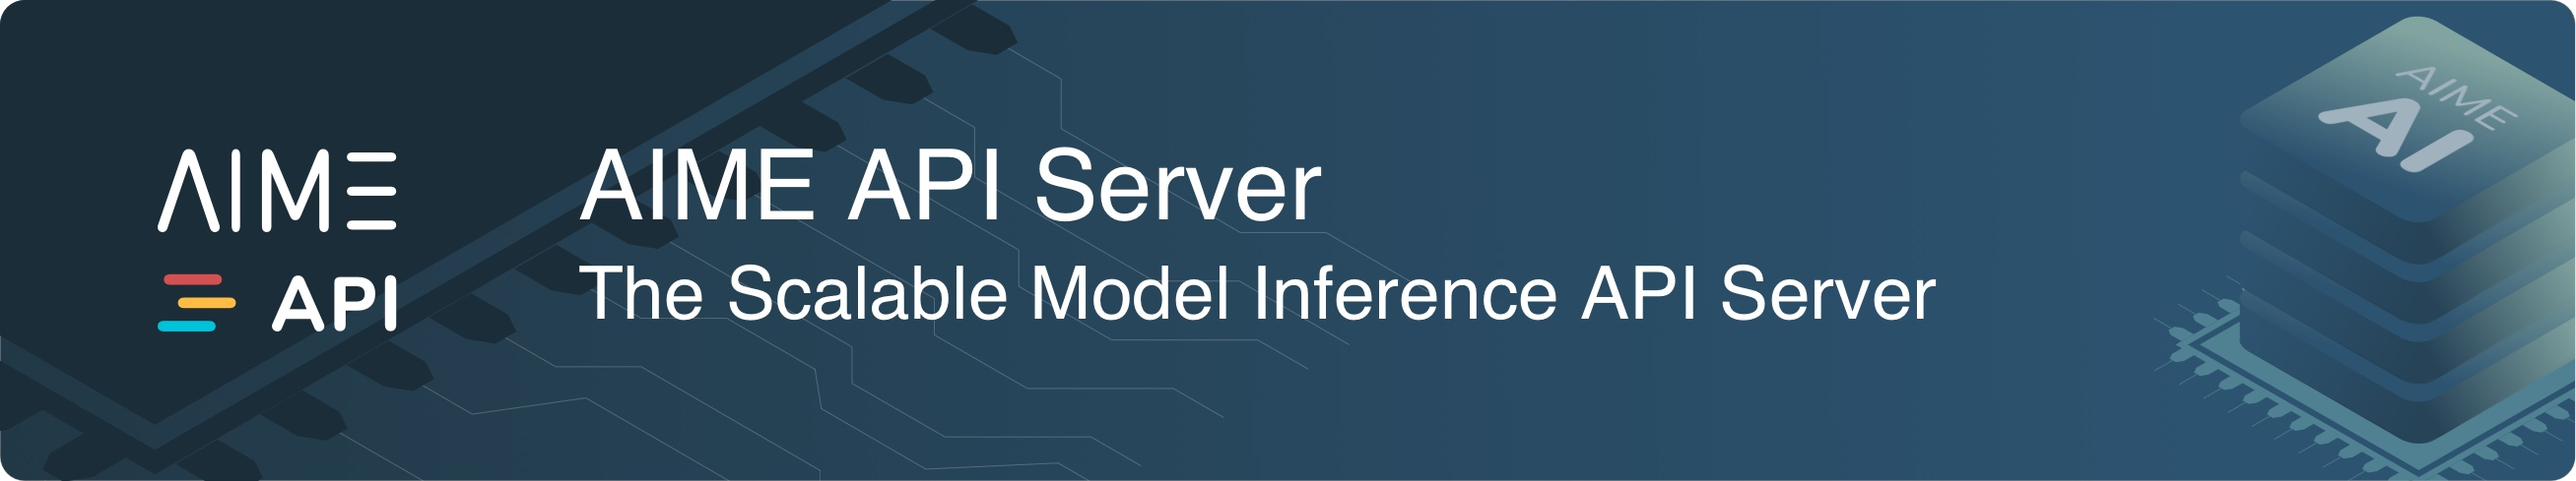
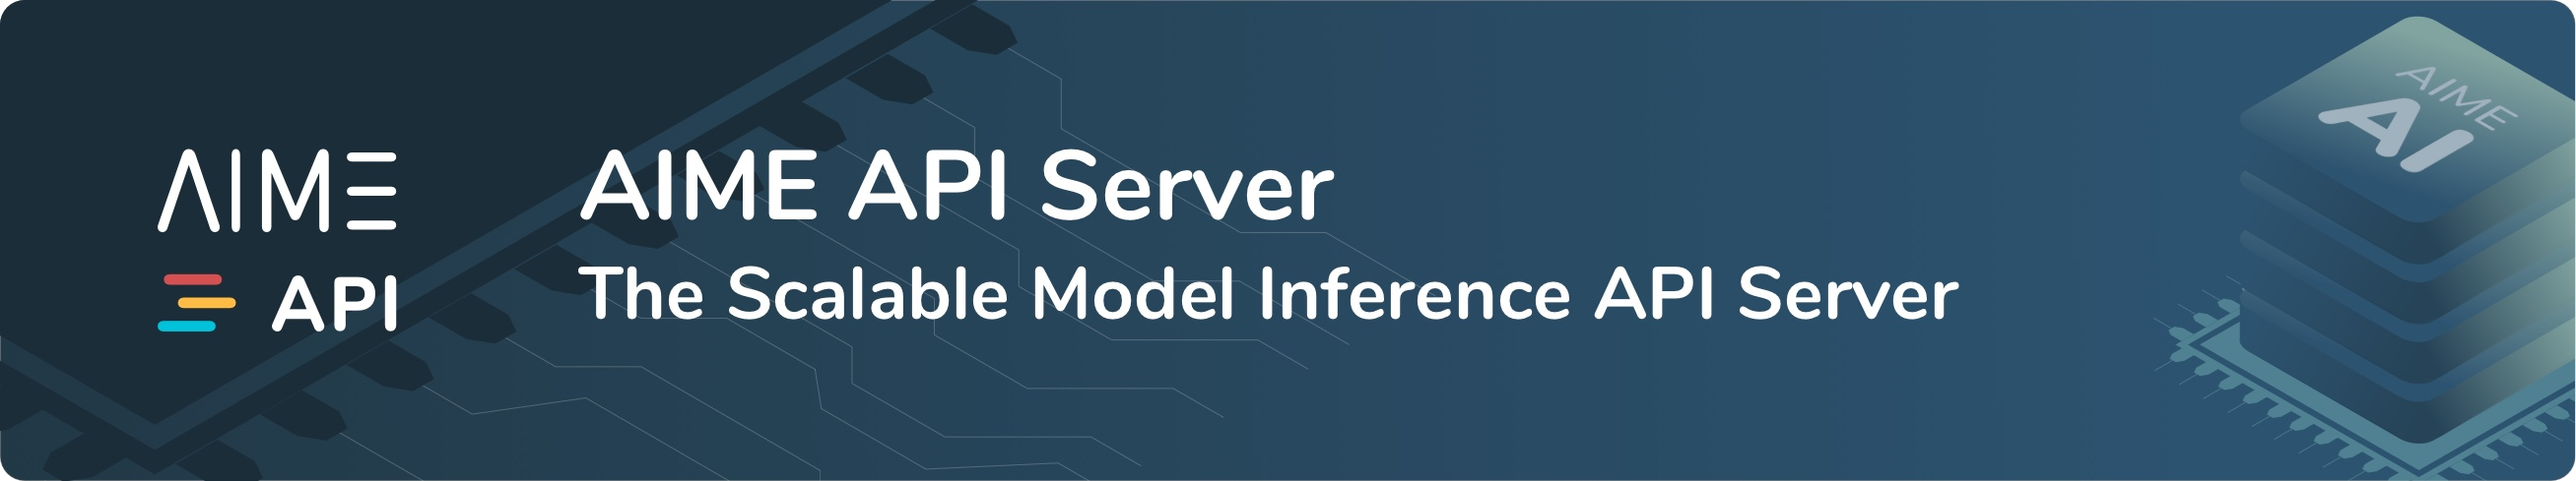
fixes and image change

Changed region(s): [[0.2478, 0.5521, 0.7744, 0.6748], [0.2168, 0.3067, 0.5266, 0.4601], [0.2168, 0.5521, 0.2478, 0.5828]]

diff --git a/endpoints/seamless_communication/m4tv2/index.html b/endpoints/seamless_communication/m4tv2/index.html
@@ -24,10 +24,10 @@ This software may be used and distributed according to the terms of the MIT LICE
 </head>
 
 <body>
-    <div class="pl-5 pr-5 max-w-7xl mx-auto min-h-screen">
+    <div class="pl-5 pr-5 max-w-7xl mx-auto">
         <div id="top">
 			<img class="w-full mb-7 max-w-lg" alt="AIME API Demo: Seamless Communication m4tv2" src="/sc-m4tv2/static/images/aime_api_demo-seamless-translate_banner.png" title="AIME API Demo: Seamless Communication m4tv2">
-            <h2 class="text-2xl font-bold text-aime_blue mt-3">AIME API Demo: Seamless Communication m4tv2</h2>
+            <h2 class="text-xl font-bold text-aime_blue mt-3">AIME API Demo: Seamless Communication m4tv2</h2>
         </div>
 		<div id="layout" class="columns flex flex-col md:flex-row">
 			<!-- LEFT COLUMN -->

diff --git a/endpoints/stable_diffusion_xl/txt2img/index.html b/endpoints/stable_diffusion_xl/txt2img/index.html
@@ -19,10 +19,10 @@
 </head>
 
 <body>
-    <div class="pl-5 pr-5 max-w-7xl mx-auto min-h-screen">
+    <div class="pl-5 pr-5 max-w-7xl mx-auto">
         <div id="top">
             <img class="w-full mb-7 max-w-lg" alt="AIME API Demo: Stable Diffusion XL Text2Image" src="/sdxl-txt2img/static/images/aime_api_demo-sdxl_banner.png" title="AIME API Demo: Stable Diffusion XL Text2Image">
-            <h2 class="text-2xl font-bold text-aime_blue mt-3">AIME API Demo: Stable Diffusion XL Text2Image</h2>
+            <h2 class="text-xl font-bold text-aime_blue mt-3">AIME API Demo: Stable Diffusion XL Text2Image</h2>
         </div>
         <div id="layout" class="columns flex flex-col md:flex-row">
             <!-- LEFT COLUMN -->

diff --git a/endpoints/llama2_chat/index.html b/endpoints/llama2_chat/index.html
@@ -24,10 +24,10 @@ This software may be used and distributed according to the terms of the MIT LICE
 </head>
 
 <body>
-	<div class="pl-5 pr-5 max-w-7xl mx-auto min-h-screen">
+	<div class="pl-5 pr-5 max-w-7xl mx-auto">
         <div id="top">
 			<img class="w-full mb-7 max-w-lg" alt="AIME LLaMa2 Chat Demo" src="/llama2-chat/static/images/aime_api_demo-llm-chat_banner.png" title="AIME LLaMa2 Chat Demo">
-            <h2 class="text-2xl font-bold text-aime_blue mt-3">AIME API Demo: LlaMa 2 - Simple Chat</h2>
+            <h2 class="text-xl font-bold text-aime_blue mt-3">AIME API Demo: LlaMa 2 - Simple Chat</h2>
         </div>
 		<div id="layout" class="columns flex flex-col md:flex-row">
 			<!-- LEFT COLUMN -->

diff --git a/endpoints/index.html b/endpoints/index.html
@@ -281,7 +281,7 @@ This software may be used and distributed according to the terms of the MIT LICE
                 switch(iframePath) {
                     case '/readme.html':
                         iframeDocument.body.style.fontFamily = "'Nunito', 'Helvetica', 'Arial', sans-serif !important";
-                        //convertIFrameContent_DemoModelTeasers();
+                        convertIFrameContent_DemoModelTeasers();
                         break;
                     case '/llama2-chat/':
                         break;

diff --git a/README.md b/README.md
@@ -48,7 +48,7 @@ To illustrate the usage and capabilities of AIME API we currently run following 
 
 ### LLaMa2 Chat
 
-[![AIME LLaMa2 Chat Demo](/docs/images/aime_api_demo-llm-chat.png "AIME LLaMa2 Chat Demo")](/#llama2-chat)
+[![AIME LLaMa2 Chat Demo](/docs/images/aime_api_demo-llm-chat_banner.png "AIME LLaMa2 Chat Demo")](/#llama2-chat)
 
 Chat with 'Dave', our LLaMa2 based chat-bot.
 
@@ -58,7 +58,7 @@ Chat with 'Dave', our LLaMa2 based chat-bot.
 
 ### Stable Diffusion XL
 
-[![AIME Stable Diffusion XL Demo](/docs/images/aime_api_demo-sdxl.png "AIME Stable Diffusion XL Demo")](/#sdxl-txt2img)
+[![AIME Stable Diffusion XL Demo](/docs/images/aime_api_demo-sdxl_banner.png "AIME Stable Diffusion XL Demo")](/#sdxl-txt2img)
 
 Create photo realistic images from text prompts.
 
@@ -68,7 +68,7 @@ Create photo realistic images from text prompts.
 
 ### Seamless Communication
 
-[![AIME Seamless Communication Demo](/docs/images/aime_api_demo-seamless-translate.png "AIME Seamless Communication Demo")](/#sc-m4tv2)
+[![AIME Seamless Communication Demo](/docs/images/aime_api_demo-seamless-translate_banner.png "AIME Seamless Communication Demo")](/#sc-m4tv2)
 
 Translate between 36 languages in near realtime: Text-to-Text, Speech-to-Text, Text-to-Speech and Speech-to-Speech! 
 
